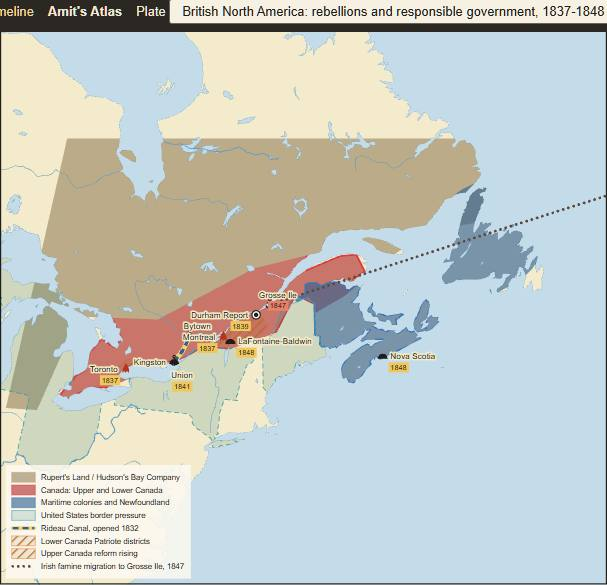
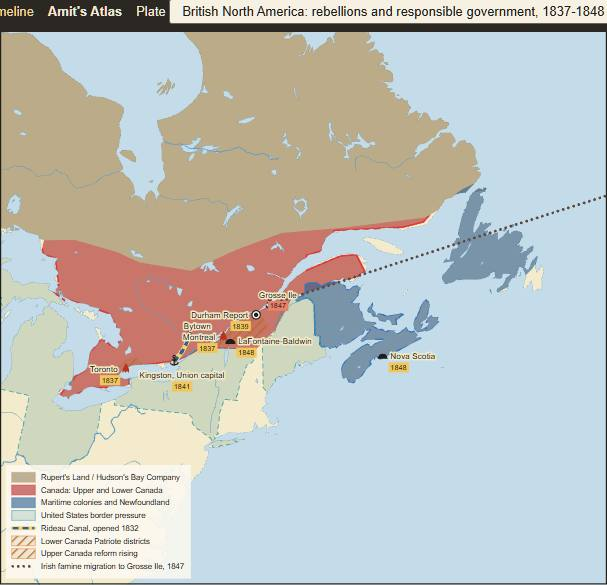
Release 1.3.0
Copilot-Session: 37f2f47f-8b63-49cd-b8ce-cded564ac449

diff --git a/atlas/plates/british-north-america-rebellions-responsible-government-1837-1848.js b/atlas/plates/british-north-america-rebellions-responsible-government-1837-1848.js
@@ -1,7 +1,9 @@
 (function(){
  const CAN="#b22d2d", BRIT="#2f5f93", HBC="#9a855f", REFORM="#b36b2e", USA="#2f7f86", ROAD="#5b4a3f";
- const canadaClip=[[-84.2,41.2],[-81.8,42.0],[-79.2,43.2],[-76.0,44.2],[-73.0,45.0],[-69.4,46.0],[-65.8,47.4],[-62.6,49.0],[-66.4,49.5],[-71.8,48.6],[-77.8,46.0],[-82.8,45.6],[-84.2,41.2]];
- const hbcField=[[-86,41.0],[-84.2,41.2],[-82.8,45.6],[-77.8,46.0],[-71.8,48.6],[-66.4,49.5],[-62.6,49.0],[-60.0,50.0],[-51.0,50.0],[-51.0,53.2],[-86,53.2],[-86,41.0]];
+ // Province of Canada north edge ~ Hudson Bay height of land; south edge stays on water or the US line, and skips New Brunswick at Chaleur Bay.
+ const heightOfLand=[[-86,48.6],[-84,48.9],[-81,48.7],[-79.5,48.4],[-76,48.3],[-73,49.4],[-70,50.2],[-66,50.4],[-60,50.6],[-57.1,51.4]];
+ const canadaClip=[...heightOfLand,[-57.1,50.9],[-61,49.6],[-64.3,48.3],[-66.4,47.95],[-69.2,47.4],[-70.3,45.9],[-71.5,45.0],[-74.7,44.95],[-76.8,43.4],[-79.0,43.0],[-83.0,41.5],[-86,41.5],[-86,48.6]];
+ const hbcField=[...heightOfLand,[-51,51.4],[-51,63],[-95,63],[-95,48.6]];
  const newfoundland=[[-59.4,46.4],[-56.2,46.8],[-52.8,48.1],[-53.6,51.6],[-57.6,51.5],[-59.8,49.3],[-59.4,46.4]];
  window.PLATES["british-north-america-rebellions-responsible-government-1837-1848"]={id:"british-north-america-rebellions-responsible-government-1837-1848",title:"British North America: rebellions and responsible government, 1837-1848",head:"Restoration / Canada",folio:"synthesis with pp. 42-61",viewer:"restoration/1839/ch-bna-rebellions-responsible",figures:[{caption:"Rebellion, union and responsible government in British North America",share:0.68,extent:[[-86,41],[-51,53]],projection:"conic",layers:[
  {id:"hbc",type:"area",polygon:hbcField,clipToLand:true,smooth:false,colour:HBC,tier:"core",legend:"Rupert's Land / Hudson's Bay Company"},
@@ -13,9 +15,9 @@
  {id:"lower-rebellion",type:"area",pattern:"hatch",colour:REFORM,legend:"Lower Canada Patriote districts",polygon:[[-74.5,45.1],[-73.0,45.9],[-71.5,46.6],[-70.8,46.0],[-72.6,45.2],[-74.5,45.1]],clipToLand:true},
  {id:"upper-rebellion",type:"area",pattern:"hatch",colour:REFORM,legend:"Upper Canada reform rising",polygon:[[-80.2,43.3],[-79.1,44.2],[-78.2,43.8],[-79.0,43.2],[-80.2,43.3]],clipToLand:true},
  {id:"irish",type:"route",style:"dotted",geo:true,weight:2.1,colour:ROAD,legend:"Irish famine migration to Grosse Ile, 1847",path:[[-6.26,53.35],[-40,50],[-70.67,47.02]]},
- {id:"bytown",type:"point",symbol:"port",at:[-75.69,45.42],name:"Bytown",labelPos:"n"}, {id:"kingston",type:"point",symbol:"port",at:[-76.49,44.23],name:"Kingston",labelPos:"w"},
- {id:"toronto",type:"point",symbol:"insurrection",at:[-79.38,43.65],name:"Toronto",labelPos:"w",tag:{text:"1837",colour:"#f1c75b"}}, {id:"montreal",type:"point",symbol:"insurrection",at:[-73.56,45.50],name:"Montreal",labelPos:"w",tag:{text:"1837",colour:"#f1c75b"}}, {id:"durham",type:"point",symbol:"treaty",at:[-71.55,46.55],name:"Durham Report",labelPos:"w",tag:{text:"1839",colour:"#f1c75b"}}, {id:"union",type:"point",symbol:"parliament",at:[-76.49,44.23],name:"Union",labelPos:"s",tag:{text:"1841",colour:"#f1c75b"}}, {id:"halifax",type:"point",symbol:"parliament",at:[-63.58,44.65],name:"Nova Scotia",labelPos:"e",tag:{text:"1848",colour:"#f1c75b"}}, {id:"lafontaine",type:"point",symbol:"parliament",at:[-73.10,45.32],name:"LaFontaine-Baldwin",labelPos:"e",tag:{text:"1848",colour:"#f1c75b"}}, {id:"grosse",type:"point",symbol:"port",at:[-70.67,47.02],name:"Grosse Ile",labelPos:"n",tag:{text:"1847",colour:"#e8806a"}}
-],legend:{position:"bottom-left",columns:1}},{caption:"From colonial executive to responsible ministry",kind:"diagram",share:0.32,diagram:{height:0.58,compartments:[{id:"old",label:"Before 1837",x:0.06,y:0.06,w:0.40,h:0.60,colour:BRIT,fill:"#eee8d5"},{id:"new",label:"Responsible government",x:0.54,y:0.06,w:0.40,h:0.60,colour:REFORM,fill:"#f3e4be"}],nodes:[{id:"governor",label:"governor and council",x:0.26,y:0.28,w:0.26,h:0.12,colour:BRIT,strong:true},{id:"assembly",label:"elected assembly",x:0.26,y:0.52,w:0.24,h:0.12,colour:REFORM},{id:"ministry",label:"ministry",x:0.74,y:0.28,w:0.20,h:0.12,colour:REFORM,strong:true},{id:"assembly2",label:"assembly confidence",x:0.74,y:0.52,w:0.28,h:0.12,colour:REFORM}],arrows:[{id:"deadlock",from:"assembly",to:"governor",label:"deadlock"},{id:"responsible",from:"ministry",to:"assembly2",label:"responsible to"}]}}],text:{intro:"The Penguin Atlas pages are European, but British North America belongs in this round because the same reform crisis reaches the colonies. This plate synthesizes the book's Restoration-and-revolution frame with standard Canadian history.",sections:[{heading:"Map",entries:[{date:"1826-1832",text:"The Rideau Canal gives British North America an inland military route from Bytown to Kingston, while most of the north remains Hudson's Bay Company country.",refs:["hbc","canada","rideau","bytown","kingston"]},{date:"1837-1841",text:"Rebellion in Upper and Lower Canada leads to Durham's report and the Act of Union, with Kingston as the first Union capital.",refs:["lower-rebellion","upper-rebellion","toronto","montreal","durham","union"]},{date:"1846-1848",text:"The Oregon Treaty is a far-western settlement noted here but not mapped in this eastern frame; Irish famine migration and responsible government in Nova Scotia and the Province of Canada close the round.",refs:["maritimes","us-border","irish","grosse","halifax","lafontaine"]}]},{heading:"Government",entries:[{date:"1839-1848",text:"The core shift is from executive government above the assembly to a ministry that survives by assembly confidence.",refs:["old","new","governor","assembly","ministry","assembly2","deadlock","responsible"]}]}]},sources:["Penguin Atlas Vol. 2 pp. 40-61 for the Restoration-and-revolution frame", "Canadian synthesis from standard histories of the Rebellions, Durham Report, Act of Union and responsible government"]};
+ {id:"bytown",type:"point",symbol:"port",at:[-75.69,45.42],name:"Bytown",labelPos:"n"}, {id:"kingston",type:"point",symbol:"port",at:[-76.49,44.23],name:"Kingston, Union capital",labelPos:"s",tag:{text:"1841",colour:"#f1c75b"}},
+ {id:"toronto",type:"point",symbol:"insurrection",at:[-79.38,43.65],name:"Toronto",labelPos:"w",tag:{text:"1837",colour:"#f1c75b"}}, {id:"montreal",type:"point",symbol:"insurrection",at:[-73.56,45.50],name:"Montreal",labelPos:"w",tag:{text:"1837",colour:"#f1c75b"}}, {id:"durham",type:"point",symbol:"treaty",at:[-71.55,46.55],name:"Durham Report",labelPos:"w",tag:{text:"1839",colour:"#f1c75b"}}, {id:"halifax",type:"point",symbol:"parliament",at:[-63.58,44.65],name:"Nova Scotia",labelPos:"e",tag:{text:"1848",colour:"#f1c75b"}}, {id:"lafontaine",type:"point",symbol:"parliament",at:[-73.10,45.32],name:"LaFontaine-Baldwin",labelPos:"e",tag:{text:"1848",colour:"#f1c75b"}}, {id:"grosse",type:"point",symbol:"port",at:[-70.67,47.02],name:"Grosse Ile",labelPos:"n",tag:{text:"1847",colour:"#e8806a"}}
+],legend:{position:"bottom-left",columns:1}},{caption:"From colonial executive to responsible ministry",kind:"diagram",share:0.32,diagram:{height:0.58,compartments:[{id:"old",label:"Before 1837",x:0.06,y:0.06,w:0.40,h:0.60,colour:BRIT,fill:"#eee8d5"},{id:"new",label:"Responsible government",x:0.54,y:0.06,w:0.40,h:0.60,colour:REFORM,fill:"#f3e4be"}],nodes:[{id:"governor",label:"governor and council",x:0.26,y:0.28,w:0.26,h:0.12,colour:BRIT,strong:true},{id:"assembly",label:"elected assembly",x:0.26,y:0.52,w:0.24,h:0.12,colour:REFORM},{id:"ministry",label:"ministry",x:0.74,y:0.28,w:0.20,h:0.12,colour:REFORM,strong:true},{id:"assembly2",label:"assembly confidence",x:0.74,y:0.52,w:0.28,h:0.12,colour:REFORM}],arrows:[{id:"deadlock",from:"assembly",to:"governor",label:"deadlock"},{id:"responsible",from:"ministry",to:"assembly2",label:"responsible to"}]}}],text:{intro:"The Penguin Atlas pages are European, but British North America belongs in this round because the same reform crisis reaches the colonies. This plate synthesizes the book's Restoration-and-revolution frame with standard Canadian history.",sections:[{heading:"Map",entries:[{date:"1826-1832",text:"The Rideau Canal gives British North America an inland military route from Bytown to Kingston, while most of the north remains Hudson's Bay Company country.",refs:["hbc","canada","rideau","bytown","kingston"]},{date:"1837-1841",text:"Rebellion in Upper and Lower Canada leads to Durham's report and the Act of Union, with Kingston as the first Union capital.",refs:["lower-rebellion","upper-rebellion","toronto","montreal","durham","kingston"]},{date:"1846-1848",text:"The Oregon Treaty is a far-western settlement noted here but not mapped in this eastern frame; Irish famine migration and responsible government in Nova Scotia and the Province of Canada close the round.",refs:["maritimes","us-border","irish","grosse","halifax","lafontaine"]}]},{heading:"Government",entries:[{date:"1839-1848",text:"The core shift is from executive government above the assembly to a ministry that survives by assembly confidence.",refs:["old","new","governor","assembly","ministry","assembly2","deadlock","responsible"]}]}]},sources:["Penguin Atlas Vol. 2 pp. 40-61 for the Restoration-and-revolution frame", "Canadian synthesis from standard histories of the Rebellions, Durham Report, Act of Union and responsible government"]};
 })();
 
 

diff --git a/app/version.js b/app/version.js
@@ -1,2 +1,2 @@
 // Generated by scripts/stamp_version.mjs. Do not edit by hand.
-window.APP_VERSION = {"version":"1.3.0-dev","commit":"7168550","branch":"next","stamped":"2026-10-07 22:18"};
+window.APP_VERSION = {"version":"1.3.0","commit":"7b5ec3b","branch":"next","stamped":"2026-10-07 23:47"};

diff --git a/CHANGELOG.md b/CHANGELOG.md
@@ -7,9 +7,10 @@ for the branch, commit and time it was stamped. `npm run stamp` rewrites `app/ve
 Work in progress lives on the `next` branch, checked out in a second folder (`A:\coding\history-next`) and served at
 <http://127.0.0.1:8766/app/>, so it never disturbs the copy in `A:\coding\history` that you open from disk.
 
-## 1.3.0 (Unreleased / 1.3.0-dev)
+## 1.3.0 (7 Oct 2026)
 
 - Added Penguin Atlas Vol. 2 round 2: Restoration and revolution period, scenes, five plates, Canada-first responsible-government coverage, Latin American independence, Greek independence, the Opium War, abolition and 1848.
+- Plates for the Americas, Germany and 1848 now use historical boundaries (Canada, Rupert's Land, New Spain, the South American viceroyalties, the Austrian Empire) in place of hand-drawn fields.
 
 ## 1.2.0 (7 Oct 2026)
 
